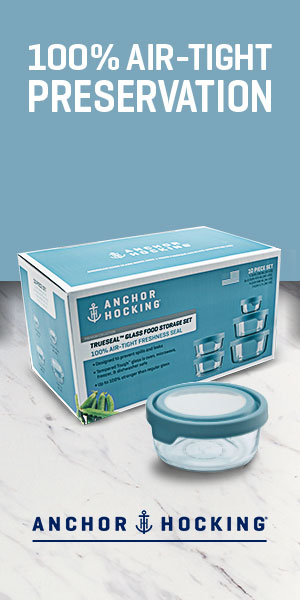
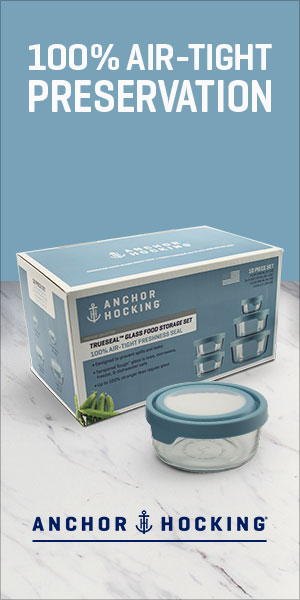
Creative update

Changed region(s): [[0.0, 0.0, 1.0, 1.0]]

diff --git a/app/300x250/scripts/Animation.js b/app/300x250/scripts/Animation.js
@@ -47,7 +47,7 @@ app.Animation = (function () {
     function start() {
         tl1.from(lid, 2, {scale:2, ease: Cubic.easeInOut}, "+=2")
             .from(lid, .5, {opacity:0}, "-=1")
-            .to(txt1, .5, {opacity: 0}, "-=1")
+            .to(txt1, .5, {opacity: 0}, "-=1.75")
 
             .from(table, 3, {y: "+=150", scale: 2, ease: Cubic.easeInOut}, "-=1.5")
             .to(food, 3, {y: "-=10"}, "-=3")
